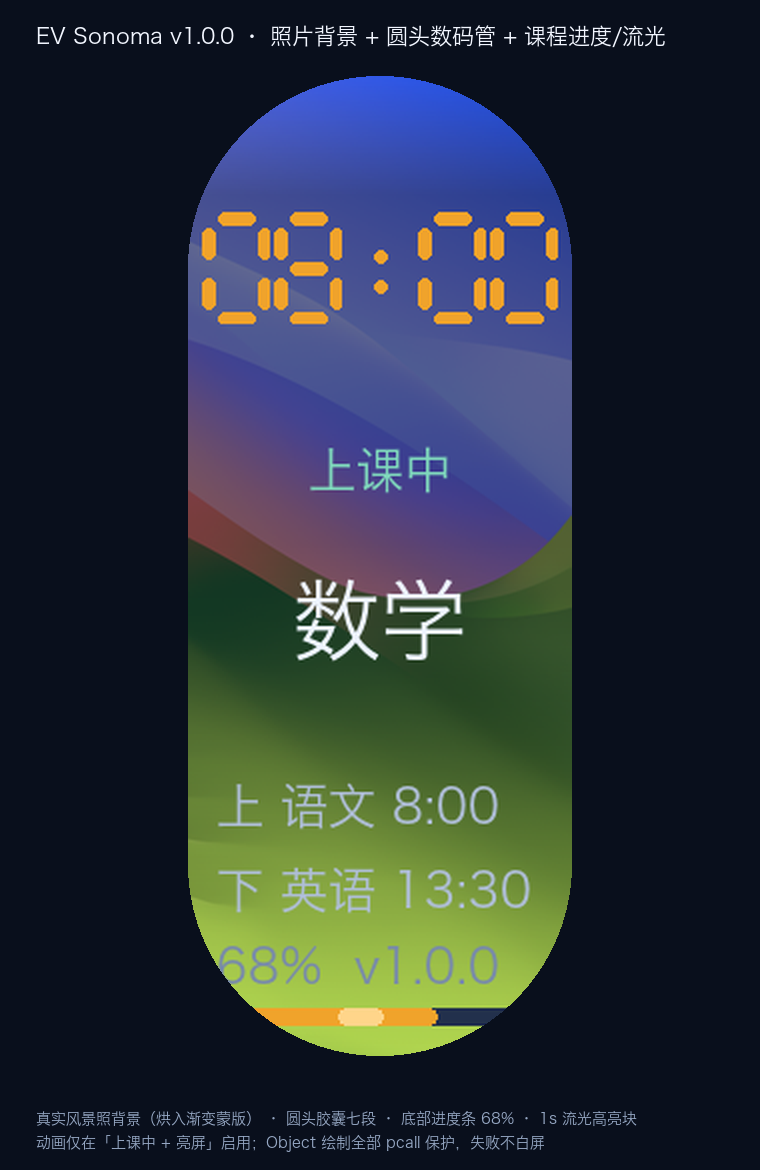
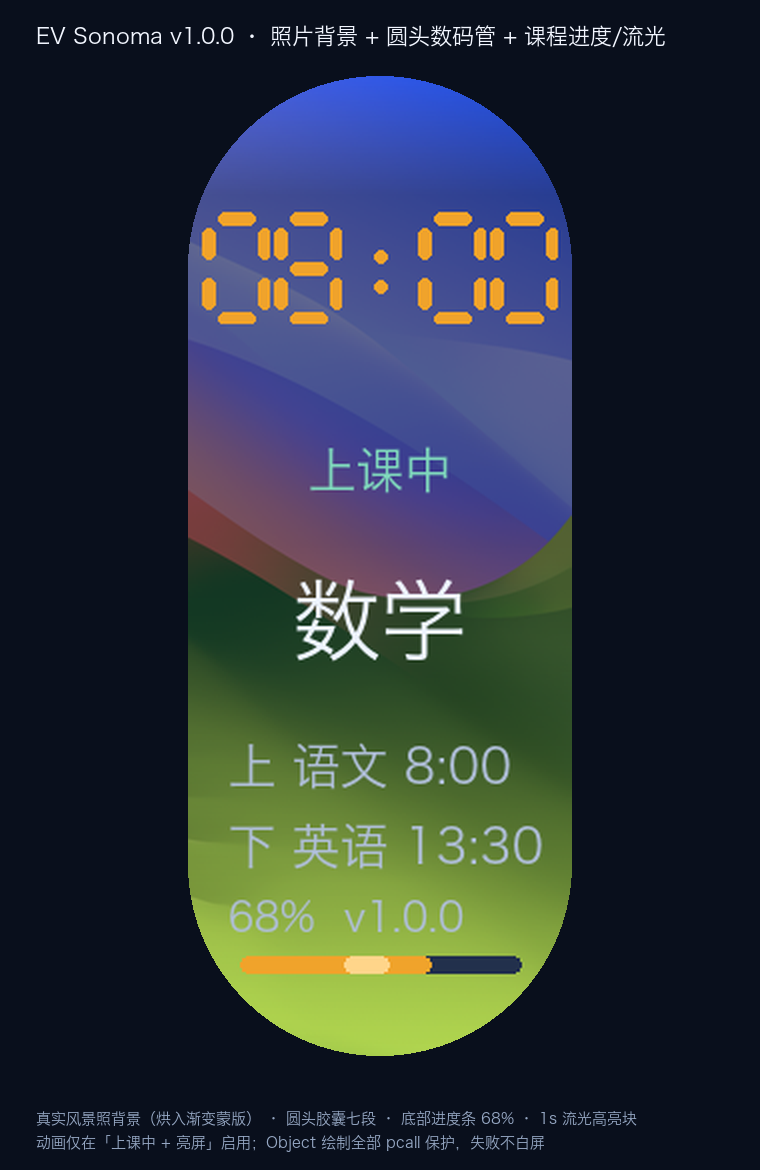
fix(sonoma): 进度条上移避开胶囊圆角，水印提对比度（evtask-D-evapp-auth-261112-eunjq7）
Session: 🔄 EV Sonoma 新表盘（照片背景+进度动画）（uuid 1f38d6ed-394c-437b-a160-14e0efd83668 · sid workbuddy-20261112-1120-1fb2）

Ev-Session: workbuddy-20261112-1120-1fb2
Ev-Task: evtask-D-evapp-auth-261112-eunjq7
Ev-Sid-Uuid: 1f38d6ed-394c-437b-a160-14e0efd83668

Changed region(s): [[0.2724, 0.6154, 0.7263, 0.8923]]

diff --git a/tools/build_sonoma.py b/tools/build_sonoma.py
@@ -95,7 +95,7 @@ def make_lua():
 -- ---------- 课程进度 + 流光（纯 LVGL 几何，不占图片槽） ----------
 -- A 档：refresh() 按课时比例改填充宽度；B 档：1s Timer 让高亮块在已完成区间跑动。
 -- 整段 pcall 保护：固件若不支持某个 Object 属性，进度条不显示，主表盘照常工作。
-local PB_X, PB_Y, PB_W, PB_H = 16, 466, 160, 8
+local PB_X, PB_Y, PB_W, PB_H = 26, 440, 140, 8
 _G.ev_apply_progress = function() end
 _G.ev_tick_anim = function() end
 pcall(function()
@@ -169,19 +169,19 @@ def compose(glyphs, bg, out):
         g = Image.open(glyphs[name]).convert("RGBA")
         d2 = ImageDraw.Draw(canvas)
         canvas.paste(g, (DX[i], DIG_Y), g)
-    f24, f44 = pick(24), pick(44)
+    f20, f24, f44 = pick(20), pick(24), pick(44)
     def centered(text, y, font, color):
         w = d.textlength(text, font=font); d.text(((W-w)/2, y), text, font=font, fill=color)
     centered("上课中", 184, f24, C_STAT)
     centered("数学", 250, f44, C_MAIN)
-    d.text((14, 352), "上 语文 8:00", font=f24, fill=C_DIM)
-    d.text((14, 394), "下 英语 13:30", font=f24, fill=C_DIM)
-    d.text((14, 432), f"68%  v{VER}", font=f24, fill=C_LO)
-    # 进度条：轨道 / 已过 68% / 流光高亮块
-    d.rounded_rectangle((16,466,176,474), radius=4, fill=(34,48,76))
-    d.rounded_rectangle((16,466,16+int(160*0.68),474), radius=4, fill=AMBER)
-    gx = 16 + int(160*0.68*0.55)
-    d.rounded_rectangle((gx,466,min(gx+22,176),474), radius=4, fill=(255,213,138))
+    d.text((20, 332), "上 语文 8:00", font=f24, fill=C_DIM)
+    d.text((20, 372), "下 英语 13:30", font=f24, fill=C_DIM)
+    d.text((20, 410), f"68%  v{VER}", font=f20, fill=C_DIM)
+    # 进度条 y=440：y=466 时胶囊底部圆角只剩 63px 半宽，两端会被裁
+    d.rounded_rectangle((26,440,166,448), radius=4, fill=(34,48,76))
+    d.rounded_rectangle((26,440,26+int(140*0.68),448), radius=4, fill=AMBER)
+    gx = 26 + int(140*0.68*0.55)
+    d.rounded_rectangle((gx,440,min(gx+22,166),448), radius=4, fill=(255,213,138))
     canvas.save(out)
     return out
 
